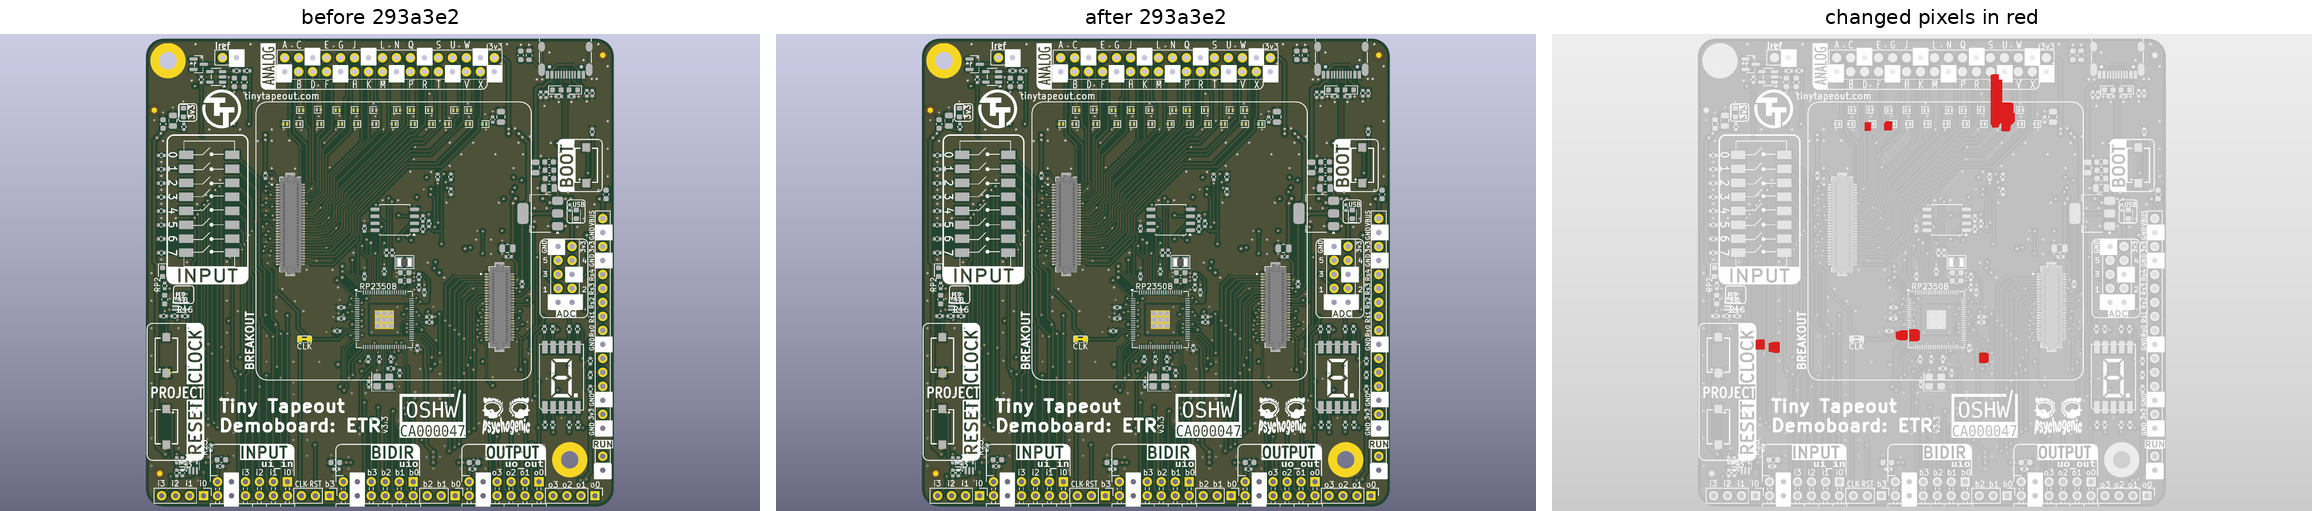
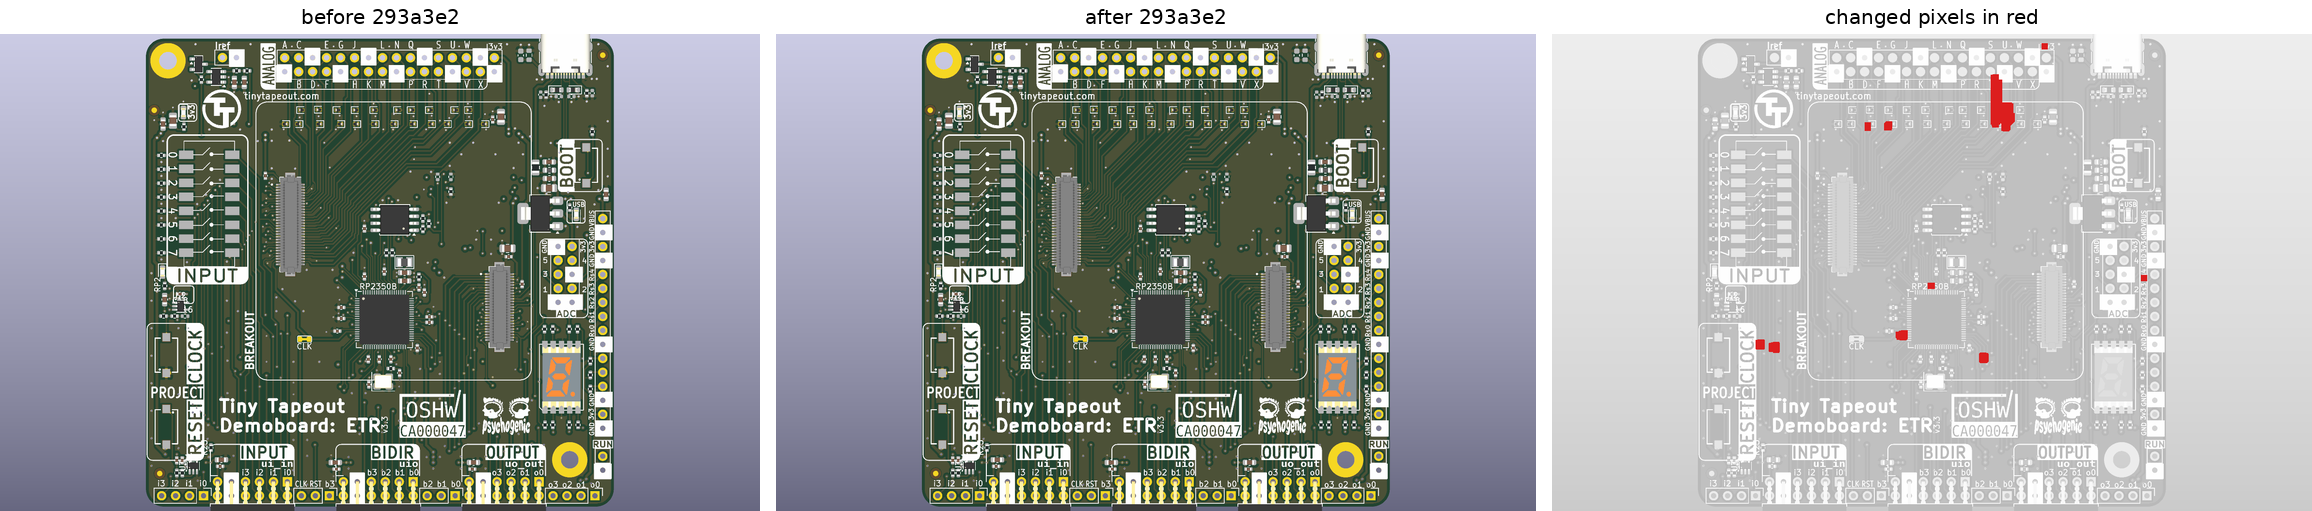
Figures: re-render and re-plot in KiCad 10.0.5
board_renders.sh, kicad_figures.sh, dip_dock_render.py and
review_diff.py, run with the new render image, so every 3D render shows
the parts' 3D models. The plots come from kicad/kicad:10.0.5: of
kicad_figures.sh's six, the QFN-64 footprint (its pin-1 mark is a
triangle beside the outline in 10.0.5's library) and the breakout's
supply section changed; the copper layers, the symbol, Lab 02's two
plots, dip_dock_layers.py and footprint_sizes.py came out the same.
ci_flow.py names kicad/kicad:10.0.5.

diff --git a/scripts/figures/review_diff.py b/scripts/figures/review_diff.py
@@ -3,8 +3,9 @@
 
 Commit 293a3e2 of TinyTapeout/tt-demo-pcb (2026-06-23, "minor pcb cleanup") changed
 tinytapeout-demo.kicad_pcb by 2,851 added and 2,919 removed lines. This script renders the
-board's top before and after that commit with `kicad-cli pcb render` in the pinned image
-(scripts/screenshots/kicad/render.sh), and writes docs/assets/img/tt-demo-293a3e2-review.png:
+board's top before and after that commit with `kicad-cli pcb render` in the render image,
+with the parts' 3D models (scripts/screenshots/kicad/render.sh), and writes
+docs/assets/img/tt-demo-293a3e2-review.png:
 the two renders side by side, and a third panel with every pixel that changed drawn in red,
 thickened so that it survives the scaling, over a faded copy of the new board.
 

diff --git a/scripts/figures/dip_dock_render.py b/scripts/figures/dip_dock_render.py
@@ -3,9 +3,9 @@
     python3 labs/common/fetch_boards.py
     IC103_DOCKER_ARGS="--cpus 1 --memory 2g" python3 scripts/figures/dip_dock_render.py
 
-Runs `kicad-cli pcb render` in the pinned image through scripts/screenshots/kicad/render.sh
-and writes docs/assets/img/ic103-dip-dock-top.png. The image has no 3D models of parts,
-so the render shows the bare board: copper, mask, silkscreen and holes.
+Runs `kicad-cli pcb render` through scripts/screenshots/kicad/render.sh, in the render image
+(kicad/kicad:10.0.5-full, which has KiCad's 3D models of parts), and writes
+docs/assets/img/ic103-dip-dock-top.png: the board with its parts.
 """
 import os
 import subprocess

diff --git a/scripts/figures/ci_flow.py b/scripts/figures/ci_flow.py
@@ -34,7 +34,7 @@ d.config(margin=0.3)
 # Top row: the push, the runner, the pinned image
 push = box(d, 0, 0, "git push\nto your repository", w=3.8)
 runner = box(d, 5.6, 0, "GitHub Actions runner\nchecks out the commit")
-image = box(d, 11.6, 0, "kicad/kicad:10.0.8\npinned by its digest")
+image = box(d, 11.6, 0, "kicad/kicad:10.0.5\npinned by its digest")
 d.add(elm.Arrow().at(push.E).to(runner.W))
 d.add(elm.Arrow().at(runner.E).to(image.W))
 
